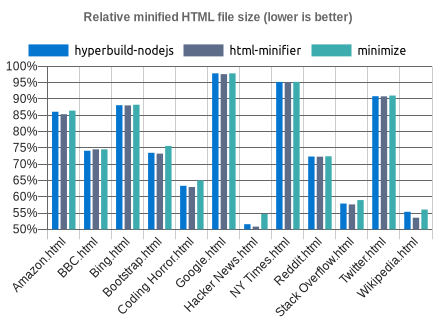
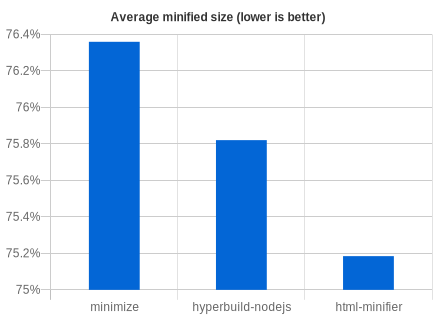
Do not handle extremely rare escaped states in <script>; simplify graph to show single average

diff --git a/bench/graph.js b/bench/graph.js
@@ -5,41 +5,44 @@ const tests = require('./tests');
 
 const colours = {
   'hyperbuild': '#041f60',
-  'hyperbuild-nodejs': '#0476d0',
-  'minimize': '#3cacae',
-  'html-minifier': '#5d6c89',
+  'hyperbuild-nodejs': '#1f77b4',
+  'minimize': '#ff7f0e',
+  'html-minifier': '#2ca02c',
 };
+
+const programNames = ['minimize', 'html-minifier', 'hyperbuild-nodejs'];
 
 const chartOptions = (title, displayLegend, yTick = t => t) => ({
   options: {
     title: {
       display: true,
       text: title,
+      fontColor: '#333',
     },
     scales: {
       xAxes: [{
-        barPercentage: 0.75,
+        barPercentage: 0.5,
         gridLines: {
-          color: '#ccc',
+          color: '#e2e2e2',
         },
         ticks: {
-          fontColor: '#222',
+          fontColor: '#666',
         },
       }],
       yAxes: [{
         gridLines: {
-          color: '#666',
+          color: '#ccc',
         },
         ticks: {
           callback: yTick,
-          fontColor: '#222',
+          fontColor: '#666',
         },
       }],
     },
     legend: {
       display: displayLegend,
       labels: {
-        fontFamily: 'Ubuntu, sans-serif',
+        fontFamily: 'Arial, sans-serif',
         fontColor: '#000',
       },
     },
@@ -56,31 +59,50 @@ const renderChart = async (file, cfg) => {
   const testNames = tests.map(t => t.name).sort();
 
   const speedResults = JSON.parse(fs.readFileSync(path.join(__dirname, 'speed.json'), 'utf8'));
+  const speedData = programNames.map(program => [
+    program,
+    testNames
+      // Get OP/s for each test.
+      .map(test => speedResults[test][program] / speedResults[test]['hyperbuild-nodejs'])
+      // Sum all test OP/s.
+      .reduce((sum, c) => sum + c)
+    // Divide by tests count to get average OP/s.
+    / testNames.length,
+  ]).sort((a, b) => a[1] - b[1]);
   await renderChart('speed', {
     type: 'bar',
     data: {
-      labels: testNames,
-      datasets: ['hyperbuild', 'hyperbuild-nodejs', 'minimize', 'html-minifier'].map(program => ({
-        label: program,
-        backgroundColor: colours[program],
-        data: testNames.map(test => speedResults[test][program] / speedResults[test]['hyperbuild'] * 100),
-      })),
+      labels: speedData.map(([n]) => n),
+      // Node.js version is close enough to Rust version, so leave out Rust results.
+      // Include it this if this situation changes.
+      datasets: [{
+        label: 'Average relative OP/s',
+        backgroundColor: '#0366d6',
+        data: speedData.map(([_, v]) => v),
+      }],
     },
-    ...chartOptions('Relative operations per second (higher is better)', true, tick => `${tick}%`),
+    ...chartOptions('Average operations per second (higher is better)', false, tick => `${tick * 100}%`),
   });
 
   const sizes = JSON.parse(fs.readFileSync(path.join(__dirname, 'minification.json'), 'utf8'));
+  const sizeData = programNames.map(program => [
+    program,
+    testNames
+      .map(test => sizes[test][program].relative)
+      .reduce((sum, c) => sum + c)
+    / testNames.length,
+  ]).sort((a, b) => b[1] - a[1]);
   await renderChart('minification', {
     type: 'bar',
     scaleFontColor: 'red',
     data: {
-      labels: testNames,
-      datasets: ['hyperbuild-nodejs', 'html-minifier', 'minimize'].map(program => ({
-        label: program,
-        backgroundColor: colours[program],
-        data: testNames.map(test => sizes[test][program].relative * 100),
-      })),
+      labels: sizeData.map(([n]) => n),
+      datasets: [{
+        label: 'Average minified size',
+        backgroundColor: '#0366d6',
+        data: sizeData.map(([_, v]) => v),
+      }],
     },
-    ...chartOptions('Relative minified HTML file size (lower is better)', true, tick => `${tick}%`),
+    ...chartOptions('Average minified size (lower is better)', false, tick => `${tick * 100}%`),
   });
 })();

diff --git a/src/unit/script.rs b/src/unit/script.rs
@@ -1,66 +1,10 @@
 use crate::err::ProcessingResult;
 use crate::proc::Processor;
 
-// See https://www.w3.org/TR/html52/syntax.html#script-data-state and "notes/Script data.md".
-
-enum State {
-    End,
-    Normal,
-    Escaped,
-    DoubleEscaped,
-}
-
-// TODO Optimise all functions in this file.
-
-fn process_script_data_double_escaped(proc: &mut Processor) -> ProcessingResult<State> {
-    loop {
-        if chain!(proc.match_seq(b"</script").keep().matched()) {
-            return Ok(State::Escaped);
-        };
-        if chain!(proc.match_seq(b"-->").keep().matched()) {
-            return Ok(State::Normal);
-        };
-        proc.accept()?;
-    };
-}
-
-fn process_script_data_escaped(proc: &mut Processor) -> ProcessingResult<State> {
-    loop {
-        if chain!(proc.match_seq(b"<script").keep().matched()) {
-            return Ok(State::DoubleEscaped);
-        };
-        if chain!(proc.match_seq(b"</script").matched()) {
-            return Ok(State::End);
-        };
-        if chain!(proc.match_seq(b"-->").keep().matched()) {
-            return Ok(State::Normal);
-        };
-        proc.accept()?;
-    };
-}
-
-fn process_script_data(proc: &mut Processor) -> ProcessingResult<State> {
-    loop {
-        if chain!(proc.match_seq(b"</script").matched()) {
-            return Ok(State::End);
-        };
-        if chain!(proc.match_seq(b"<!--").keep().matched()) {
-            return Ok(State::Escaped);
-        };
-        proc.accept()?;
-    };
-}
+include!(concat!(env!("OUT_DIR"), "/gen_pattern_SCRIPT_END.rs"));
 
 pub fn process_script(proc: &mut Processor) -> ProcessingResult<()> {
-    // NOTE: See "notes/Script data.md".
-    let mut state = State::Normal;
-    loop {
-        state = match state {
-            State::End => break,
-            State::Normal => process_script_data(proc)?,
-            State::Escaped => process_script_data_escaped(proc)?,
-            State::DoubleEscaped => process_script_data_double_escaped(proc)?,
-        };
-    };
+    // `process_tag` will require closing tag.
+    chain!(proc.match_while_not_seq(SCRIPT_END).keep());
     Ok(())
 }

diff --git a/README.md b/README.md
@@ -369,4 +369,4 @@ Special handling of some attributes require case sensitive names and values. For
 
 `script` and `style` tags must be closed with `</script>` and `</style>` respectively (case sensitive).
 
-[hyperbuild can handle escaped and double-escaped script content.](./notes/Script%20data.md)
+hyperbuild does not handle [escaped and double-escaped](./notes/Script%20data.md) script content.
